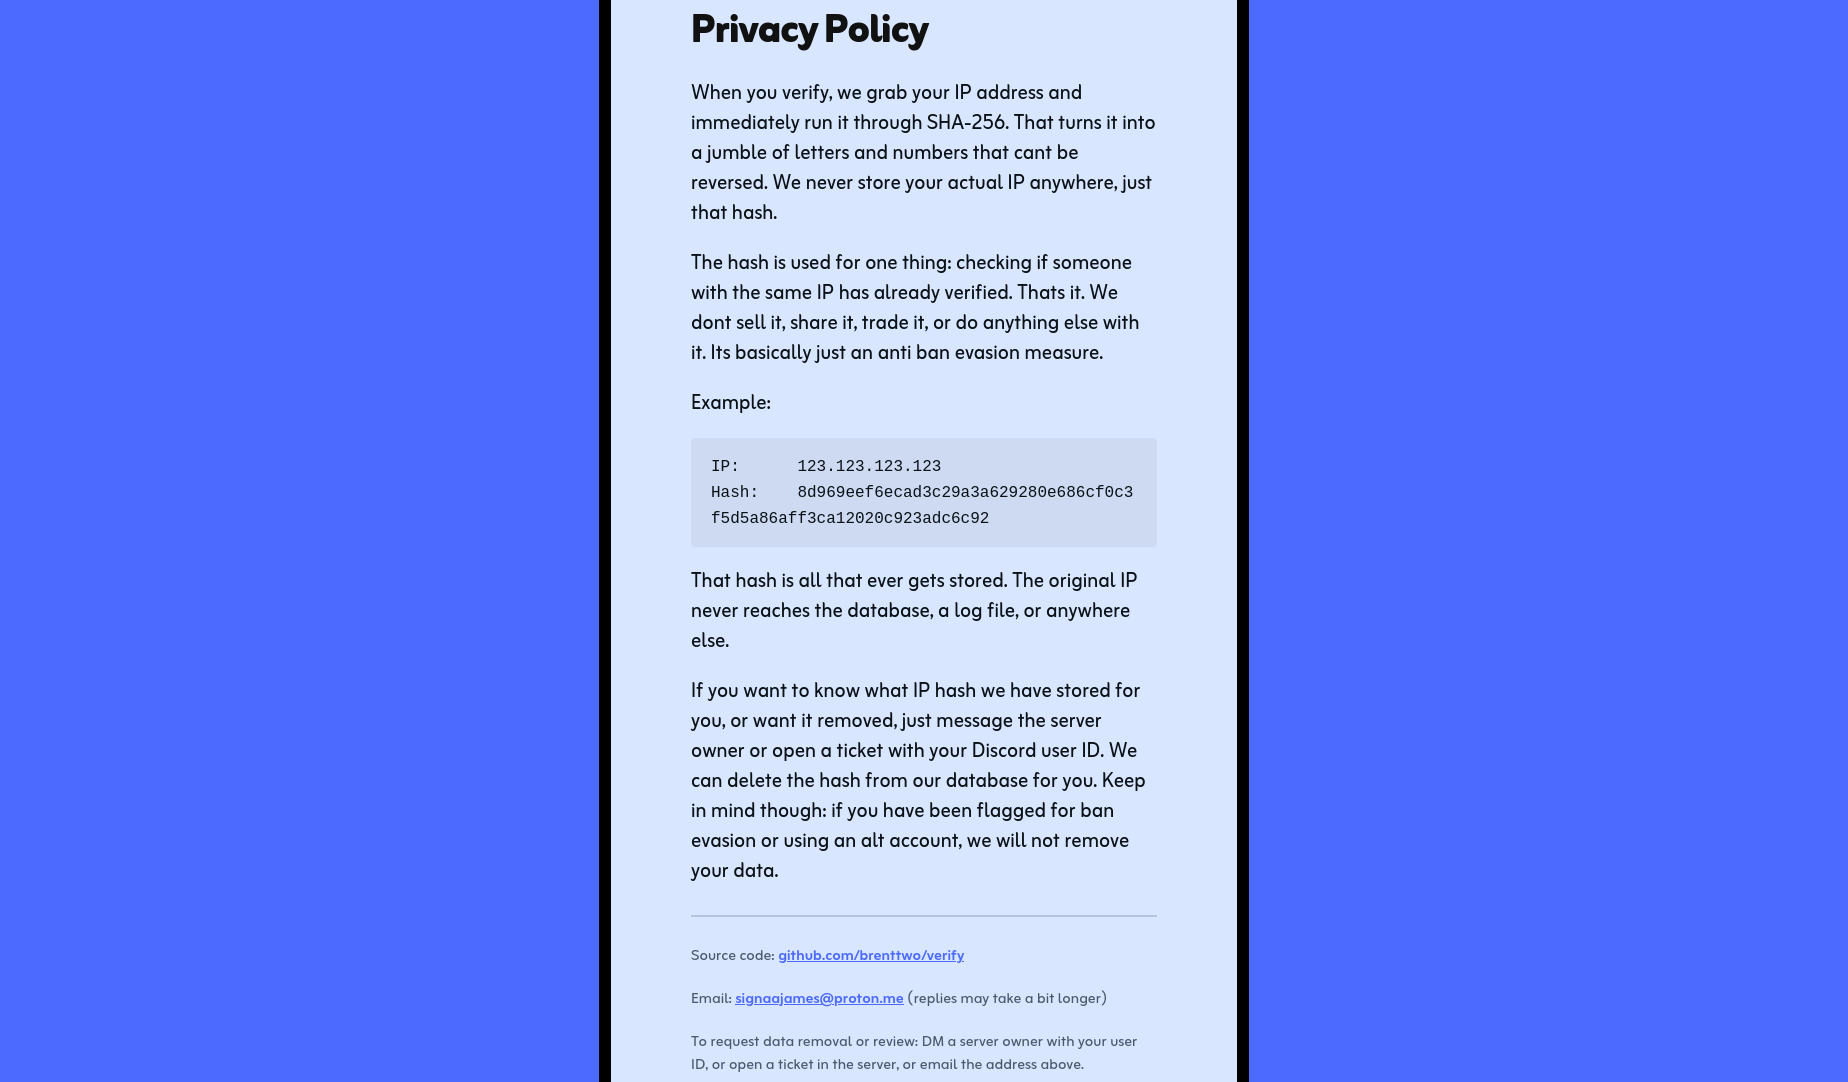
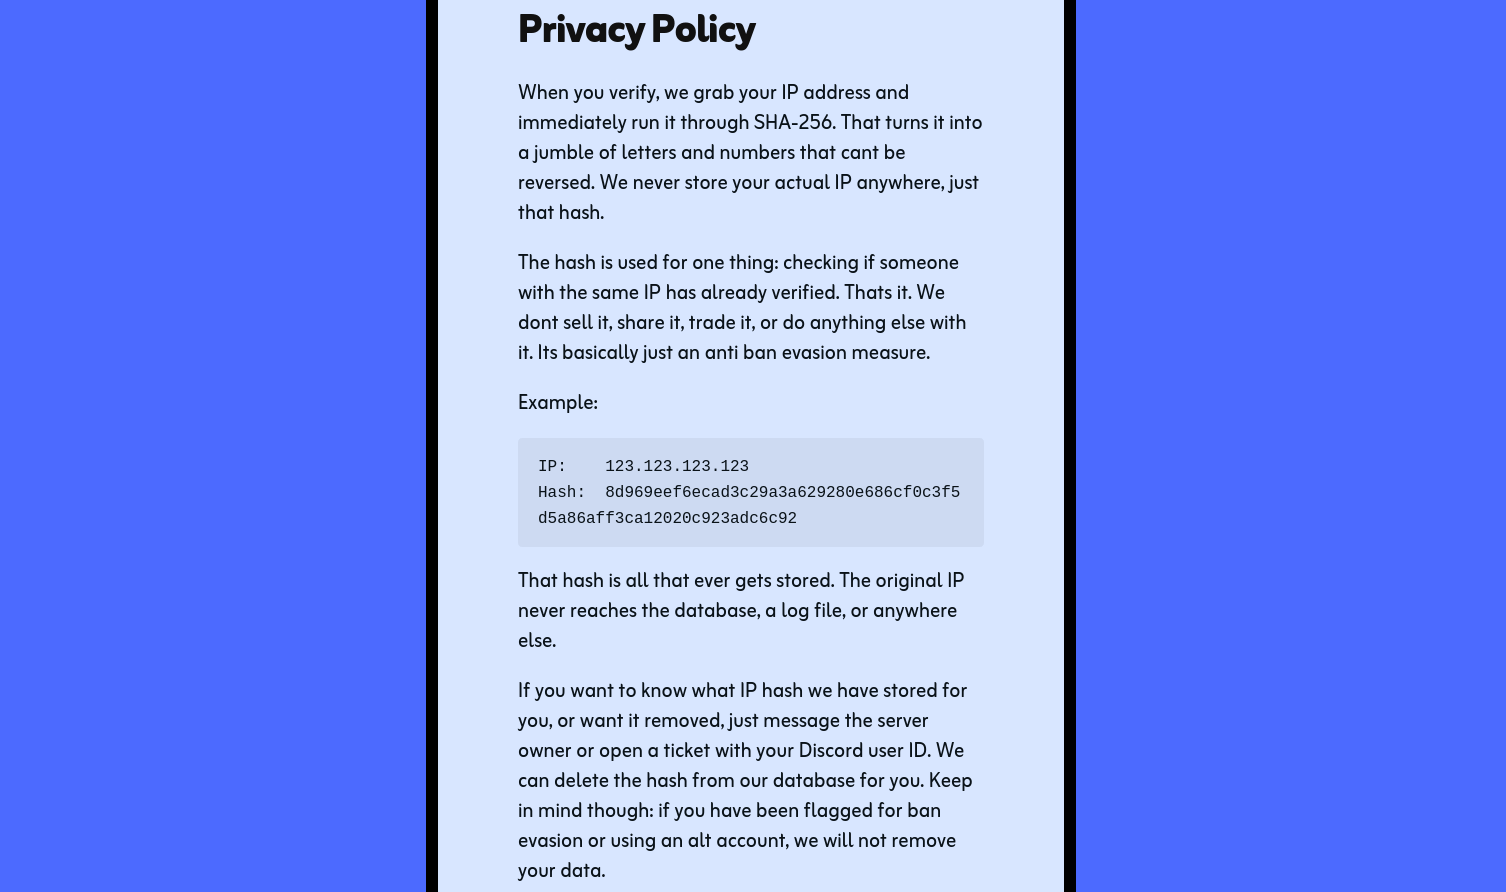
Updates

Changed region(s): [[0.2809, 0.0, 0.7178, 1.0]]

diff --git a/404.html b/404.html
@@ -14,7 +14,7 @@
     <meta property="og:type" content="website" />
     <meta name="twitter:card" content="summary_large_image" />
     <meta name="theme-color" content="#4C6AFF" />
-    <script type="module" crossorigin src="/privacy/assets/index-CntcMFN7.js"></script>
+    <script type="module" crossorigin src="/privacy/assets/index-lfm57_-F.js"></script>
     <link rel="stylesheet" crossorigin href="/privacy/assets/index-J96KibU0.css">
   </head>
   <body>

diff --git a/index.html b/index.html
@@ -14,7 +14,7 @@
     <meta property="og:type" content="website" />
     <meta name="twitter:card" content="summary_large_image" />
     <meta name="theme-color" content="#4C6AFF" />
-    <script type="module" crossorigin src="/privacy/assets/index-CntcMFN7.js"></script>
+    <script type="module" crossorigin src="/privacy/assets/index-lfm57_-F.js"></script>
     <link rel="stylesheet" crossorigin href="/privacy/assets/index-J96KibU0.css">
   </head>
   <body>